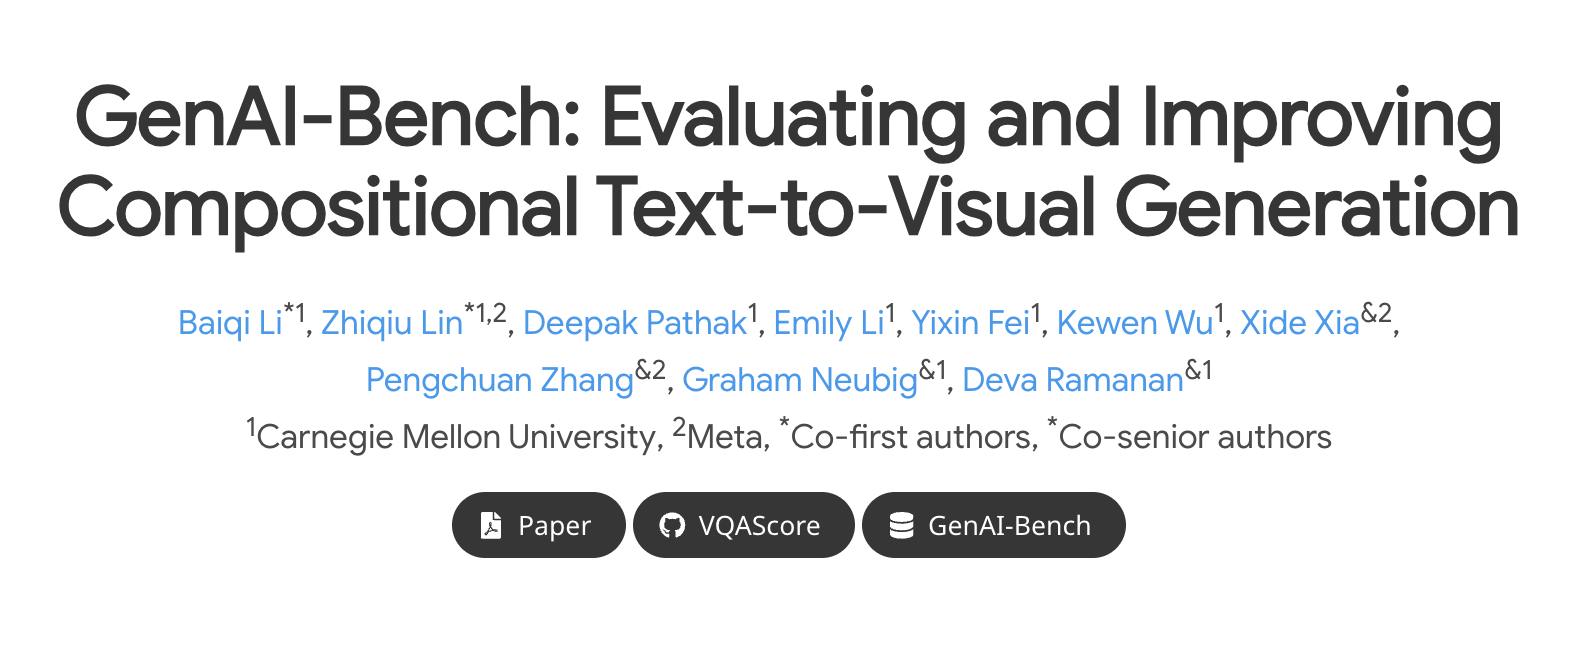
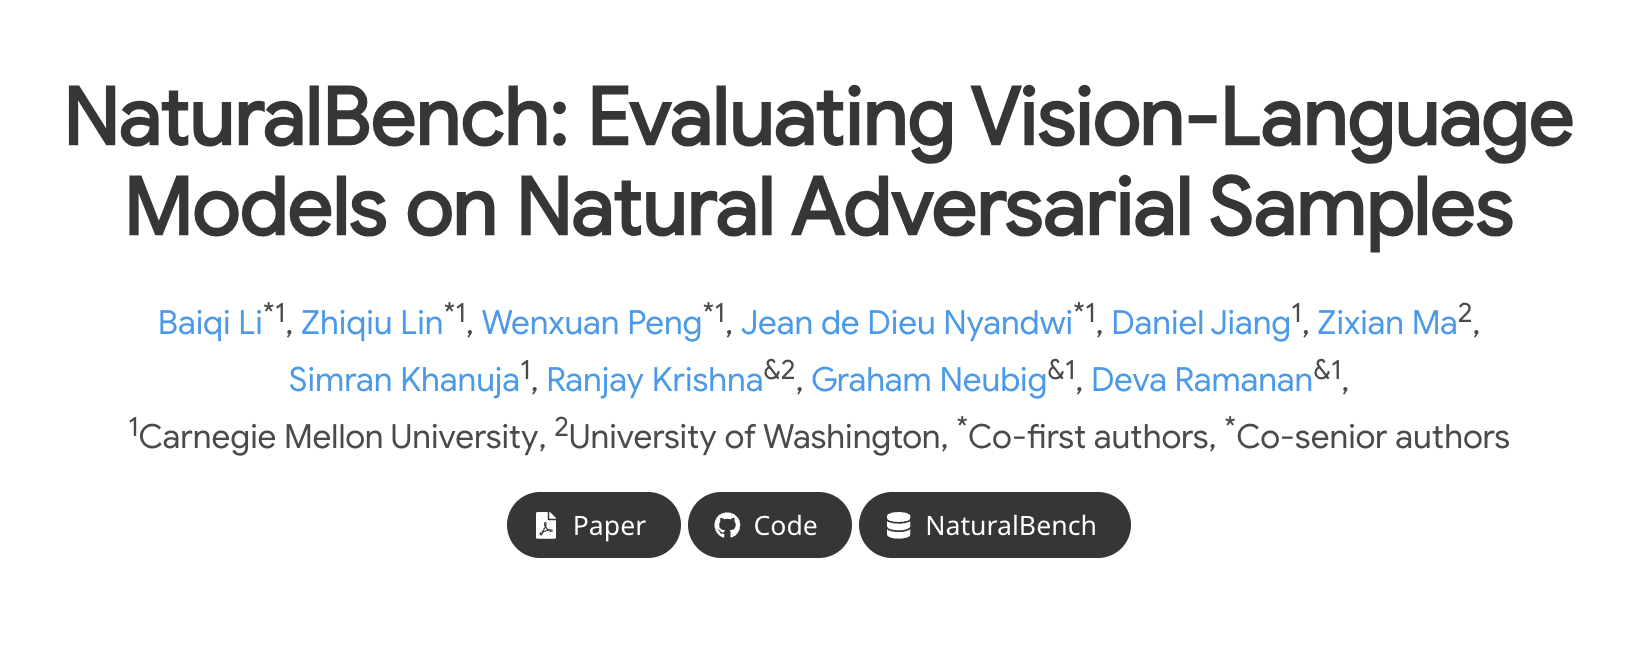
[add] NaturalBench

diff --git a/papers/naturalbench/index.html b/papers/naturalbench/index.html
@@ -71,12 +71,12 @@
                 <a target="_blank">Zixian Ma</a><sup>2</sup>,</span>
               <span class="author-block">
                 <a target="_blank">Simran Khanuja</a><sup>1</sup>,</span>
-              <span class="author-block">
-                <a target="_blank">Deva Ramanan</a><sup>&1</sup>,</span>
-              <span class="author-block">
-                <a target="_blank">Ranjay Krishna</a><sup>&2</sup>,</span>
-              <span class="author-block">
-                <a target="_blank">Graham Neubig</a><sup>&1</sup>,</span>
+                <span class="author-block">
+                  <a target="_blank">Ranjay Krishna</a><sup>&2</sup>,</span>
+                  <span class="author-block">
+                    <a target="_blank">Graham Neubig</a><sup>&1</sup>,</span>
+                    <span class="author-block">
+                      <a target="_blank">Deva Ramanan</a><sup>&1</sup>,</span>
               </span>
             </div>
 
@@ -92,7 +92,7 @@
               <div class="publication-links">
                 <!-- Arxiv PDF link -->
                 <span class="link-block">
-                  <a href="https://arxiv.org/pdf/2404.01291.pdf" target="_blank"
+                  <a href="https://arxiv.org/pdf/todo.pdf" target="_blank"
                     class="external-link button is-normal is-rounded is-dark">
                     <span class="icon">
                       <i class="fas fa-file-pdf"></i>
@@ -139,7 +139,12 @@
           <h2 class="title is-3">Abstract</h2>
           <div class="content has-text-justified">
             <p>
-              TODO
+              Are large vision-language models (VLMs) truly effective? In this work, we show that popular VLMs still struggle with natural images and questions that humans can easily answer, which we term <b>natural adversarial samples</b>. Unlike previous VQA benchmarks such as MME that can be addressed by blind QA models, NaturalBench avoids such shortcuts by pairing each question with two images that yield different answers. We use a surprisingly simple procedure to collect adversarial VQA samples from natural image-text corpora using foundation models like CLIP and ChatGPT. We collect a new <b>NaturalBench</b> benchmark for reliably evaluating VLMs with over 10,000 human-verified VQA samples. We note several interesting findings:
+              <ol type="1">
+                <li><b>NaturalBench is hard</b>. <span style="font-size: 95%;">Popular VLMs like InstructBLIP, LLaVA-NeXT, ShareGPT4V, and XGen-MM (BLIP-3) only achieve 1%-15% above random chance performance. Even the best (closed-source) GPT-4o lags significantly behind human performance (which is above 90%). </span></li>
+                <li><b>NaturalBench is compositional</b>. <span style="font-size: 95%;">NaturalBench requires diverse visio-linguistic skills, including understanding attribute bindings, object relationships, and advanced reasoning like logic and counting. To this end, unlike prior work that uses a single tag per sample, we tag each NaturalBench sample with 1 to 8 skill tags for fine-grained evaluation. </li>
+                <li><b>NaturalBench exposes significant biases in VLMs</b>. <span style="font-size: 95%;">Most VLMs choose the same answer regardless of the input image (or question). We show that debiasing can be crucial for VLM performance.  </span></li>
+              </ol>
             </p>
           </div>
           <!-- <h2 class="title is-3">Try ranking images with VQAScore!</h2> -->
@@ -159,7 +164,23 @@
           <h2 class="title is-3">Natural Adversarial Samples for Vision-Language Models</h2>
           <div class="content has-text-justified">
 
-            TODO
+            <div class="item">
+              <!-- Your image here -->
+              <div style="display: flex; justify-content: center; align-items: center;">
+                <img src="images/natural_teaser.jpg" alt="Image illustrating NaturalBench">
+            </div>
+
+              <p style="text-align: justify; font-size: 16px; line-height: 1.5; margin-top: 10px; color: #333;">
+                <b>NaturalBench examples</b> consist of two questions and two images with alternating answers to prevent ``blind'' models from scoring well (e.g., those that predict the same answer regardless of the image or question, as discussed in the paper). We compare the ground-truth answer for each (image, question) pair with predictions from leading VLMs including GPT-4o, GPT-4v, BLIP3, LLaVA-NeXT, InstructBLIP, mPLUG-Owl2.1, Qwen-VL, and InternVL. Even the best models like GPT-4o lags far behind human performance (which is above 90%). Moreover, these samples are <b>suprisingly easy to collect</b>:
+              </p>
+              
+              <div style="display: flex; justify-content: center; align-items: center;">
+                <img src="images/collection.jpg" alt="Image illustrating NaturalBench">
+            </div>
+            
+            <p style="text-align: justify; font-size: 16px; line-height: 1.5; margin-top: 10px; color: #333;">
+              We use a semi-automated procedure to collect NaturalBench from natural image-text corpora like Flickr30K and DOCCI. First, we identify confounding pairs of image-text samples that fail discriminative VLMs like CLIP, e.g., they wrongly match an image with another image's caption. Next, we prompt ChatGPT (or GPT4-Vision) to design questions that yield different answers for each image, providing the original captions (or images) in the prompt. We hire human annotators to filter out incorrect or irrelevant VQA samples. This process is much simpler than classic adversarial benchmarks as we do not target any specific VQA models nor perturb the images or questions. 
+            </p>
 
               
             </div>
@@ -171,16 +192,25 @@
   <!-- End Method Overview -->
 
 
-  <!-- Text-Image generation -->
   <section class="section hero is-light">
     <div class="container is-max-desktop">
       <div class="columns is-centered has-text-centered">
         <div class="column is-four-fifths">
-          <h2 class="title is-3">Model Evaluation</h2>
+          <h2 class="title is-3">Preventing Blind Solutions</h2>
           <div class="content has-text-justified">
-            TODO
+            
+            <p style="text-align: justify; font-size: 16px; line-height: 1.5; margin-top: 10px; color: #333;"></p>
+            Without careful curation, VQA benchmarks may be solved by blind QA models that ignore the images. Recent benchmarks often include questions solvable through <b>commonsense knowledge</b>. For example, a question from MMMU asks, "<i>What is the common term for the yellow area surrounding the site of an infection?</i>" The correct answer is "Halo", as the other options "Corona", "Border", and "Toxin zone" can be ruled out with medical knowledge. We refer interested readers to our paper and <a href="https://github.com/MMStar-Benchmark/MMStar/tree/main">MMStar</a> for further discussion on the same issue. Another easily overlooked bias is <b>imbalanced answers</b>. For example, in the popular MME benchmark, the question "<i>Does this artwork exist in the form of a painting?</i>" is answered "Yes" 97.5% of the time! We show that such spurious answer patterns can be exploited by finetuning a "blind" ChatGPT-3.5: 
+              </p>
+            <div style="display: flex; justify-content: center; align-items: center;">
+              <img src="images/bias.png" alt="Image illustrating Bias">
+          </div>
 
-              
+          <p style="text-align: justify; font-size: 16px; line-height: 1.5; margin-top: 10px; color: #333;">
+          We use a random half of each benchmark for training and test on the other half. Finetuning a blind LLM (GPT-3.5) using only QA data (without images) significantly outperforms random chance and sometimes even matches the performance of LLaVA-1.5 finetuned with images (more benchmarks are reported in the paper). In contrast, NaturalBench enforces a balanced answer distribution for each question and image, ensuring blind solutions only achieve random chance performance. To better understand model performance, we also introduce three additional metrics.
+           We define the "question accuracy" (<b>Q-Acc</b>) metric to award a point only if a model correctly answers a question for both images. 
+           Similarly, the "image accuracy" (<b>I-Acc</b>) metric awards a point when a model correctly answers both questions for an image. Lastly, the "group accuracy" (<b>G-Acc</b>) metric awards one point when a model correctly answers all four (image, question) pairs in a test sample.
+          </p>
             </div>
 
 
@@ -190,33 +220,84 @@
       </div>
     </div>
   </section>
-  <!-- End Prompt Inversion -->
 
-
-  <!-- Prompt Inversion -->
   <section class="section hero is-light2">
     <div class="container is-max-desktop">
       <div class="columns is-centered has-text-centered">
         <div class="column is-four-fifths">
-          <h2 class="title is-3">TODO</h2>
+          <h2 class="title is-3">Model Evaluation</h2>
           <div class="content has-text-justified">
             <div class="item">
               <!-- Your image here -->
 
-              TODO
+              TODO: with 37 MODEL RESULTS on the NaturalBench benchmark.
+
+            <p style="text-align: justify; font-size: 16px; line-height: 1.5; margin-top: 10px; color: #333;">
+              We report the performance of 37 leading VLMs on NaturalBench. All models significantly lag behind human performance, with the performance gap (in G-Acc) between humans and models highlighted in <span style="color: red;">red</span></a>. Interestingly, VLMs with larger language models do not always perform better. Even the best closed-source GPT-4o is still significantly behind humans.
+            </p>
 
           </div>
         </div>
       </div>
     </div>
   </section>
-  <!-- End Prompt Inversion -->
+
+  <section class="section hero is-light">
+    <div class="container is-max-desktop">
+      <div class="columns is-centered has-text-centered">
+        <div class="column is-four-fifths">
+          <h2 class="title is-3">What are the Challenges?</h2>
+          <div class="content has-text-justified">
+            
+            <p style="text-align: justify; font-size: 16px; line-height: 1.5; margin-top: 10px; color: #333;"></p>
+            <b>Compositionality:</b> Solving a NaturalBench sample often requires a combination of skills, including object recognition, attribute binding, relation understanding, and advanced reasoning such as logic, comparison, differentiation (instance discrimination), counting, and world knowledge. We tag each (image, question) pair with all associated skills for a fine-grained analysis.
+              </p>
+            <div style="display: flex; justify-content: center; align-items: center;">
+              <img src="images/tag.png" alt="Image illustrating Bias">
+          </div>
+
+          <p style="text-align: justify; font-size: 16px; line-height: 1.5; margin-top: 10px; color: #333;">
+          <b>Biases:</b> NaturalBench exposes VLMs' biases towards certain answers like "Yes" regardless of the input image and question. We use the answer likelihood (<a href="https://linzhiqiu.github.io/papers/vqascore/"><span style="color: green;">VQAScore</span></a>) to perform a scoring-based evaluation by comparing the likelihood of correct (image, question, answer) triples over the incorrect ones to show that proper debiasing can lead to huge performance gains.
+          </p>
+            </div>
+
+
+            
+          </div>
+        </div>
+      </div>
+    </div>
+  </section>
+
+  <section class="section hero is-light2">
+    <div class="container is-max-desktop">
+      <div class="columns is-centered has-text-centered">
+        <div class="column is-four-fifths">
+          <h2 class="title is-3">Towards Dynamic Evaluation</h2>
+          <div class="content has-text-justified">
+            <div class="item">
+              <!-- Your image here -->
+
+            <p style="text-align: justify; font-size: 16px; line-height: 1.5; margin-top: 10px; color: #333;">
+              Since benchmarks often leak into foundation models' training data, it is crucial to update benchmarks using new data sources. Our benchmark curation method can easily adapt to new image-text datasets. We expand NaturalBench by incorporating two recently proposed datasets: (1) DOCCI with fine-grained captions over 100 words, and (2) XM3600 with captions in Chinese and Hindi. We hope our efforts will inspire future work in studying dynamic evaluations of VLMs.
+            </p>
+
+          </div>
+        </div>
+      </div>
+    </div>
+  </section>
 
   <!--BibTex citation -->
   <section class="section hero is-light" id="BibTeX (TO UPDATE)">
     <div class="container is-max-desktop content">
       <h2 class="title">BibTeX</h2>
-      <pre><code>TODO</code></pre>
+      <pre><code>@TODO{li2024natural,
+        title={NaturalBench: Evaluating Vision-Language Models on Natural Adversarial Samples},
+        author={Li, Baiqi and Lin, Zhiqiu and Peng, Wenxuan and Nyandwi, Jean de Dieu and Jiang, Daniel and Khanuja, Simran and Ma, Zixian and Krishna, Ranjay and Neubig, Graham and Ramanan, Deva},
+        booktitle={TODO},
+        year={2024}
+      }</code></pre>
     </div>
   </section>
   <!--End BibTex citation -->
